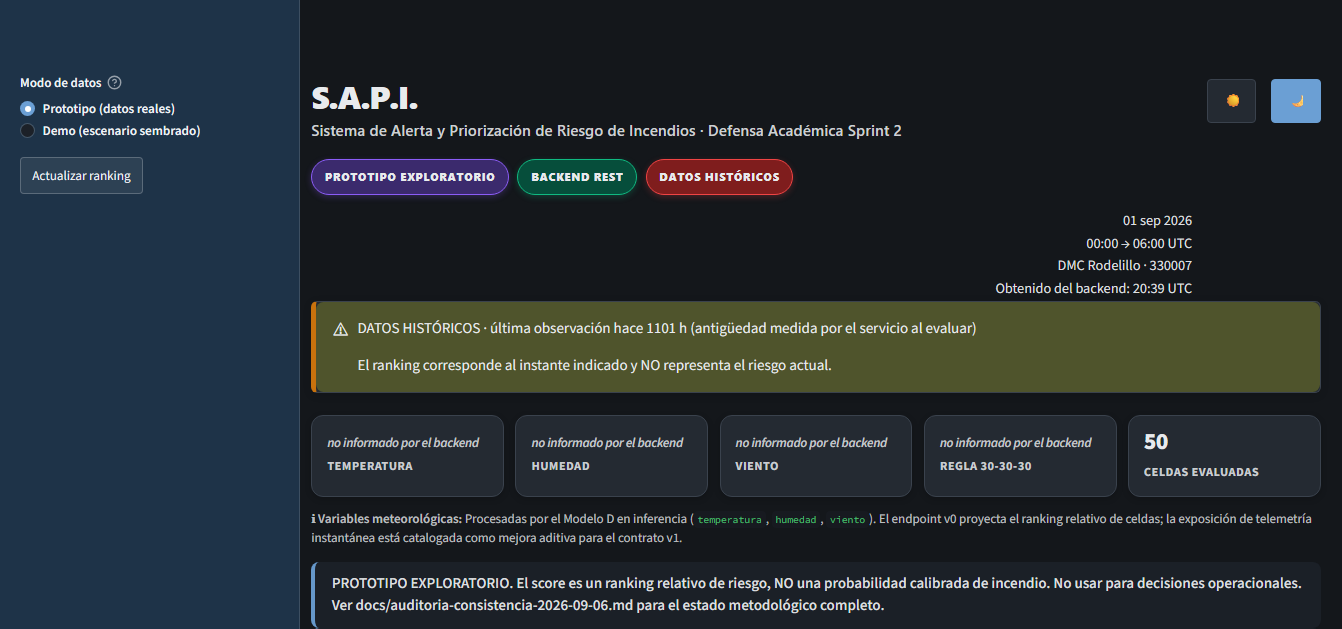
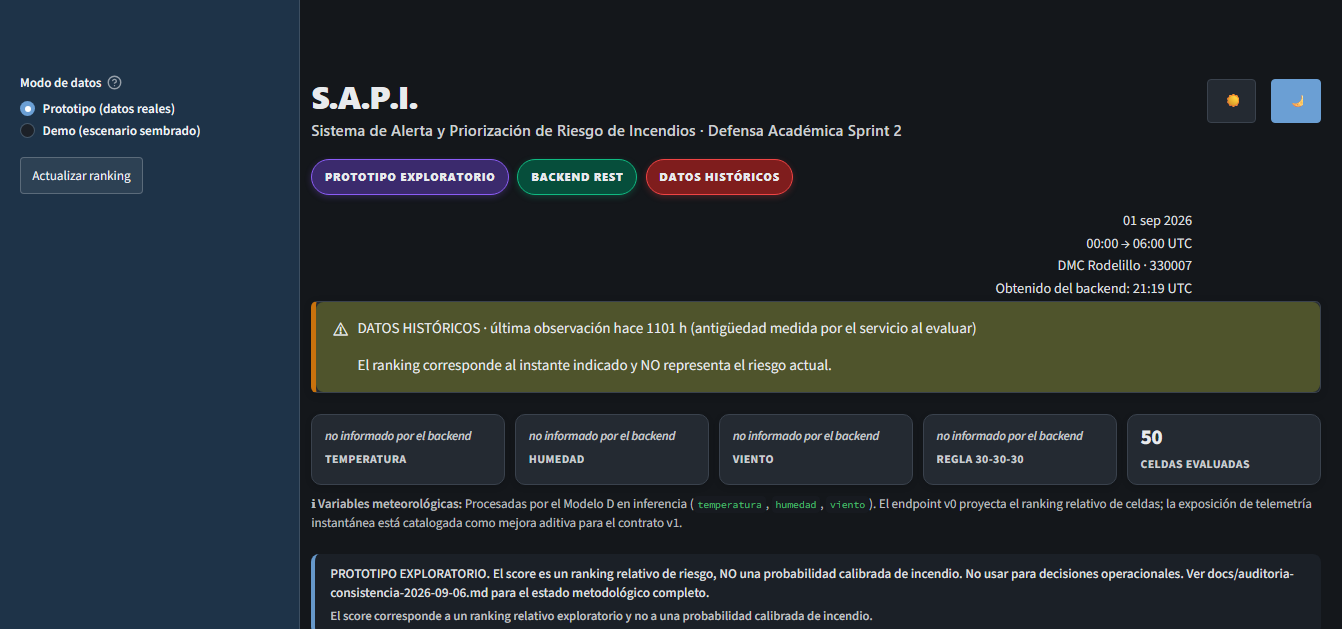
fix(ui): optimize dashboard visual density, unify disclaimer, and clarify DEM coverage in tooltips and panel

Changed region(s): [[0.2139, 0.6343, 0.9776, 0.876], [0.2444, 0.9062, 0.9776, 0.9968], [0.2139, 0.9968, 0.2444, 1.0]]

diff --git a/app/components/ranking_backend_view.py b/app/components/ranking_backend_view.py
@@ -245,13 +245,14 @@ def build_map(
             weight = 3.0
             fill_opacity = max(fill_opacity, 0.35)
 
-        elev_txt, slope_txt, _ = _topo_for(topo, c.cell_id)
+        elev_txt, slope_txt, is_covered = _topo_for(topo, c.cell_id)
+        topo_note = "" if is_covered else " (sin cobertura DEM)"
         tooltip = (
             f"<b>{_esc(c.cell_id)}</b><br>"
             f"Prioridad #{c.display_rank}<br>"
             f"Score {c.score:.6f}<br><br>"
-            f"Elevación {elev_txt} (ref.)<br>"
-            f"Pendiente {slope_txt} (ref.)<br>"
+            f"Elevación {elev_txt} (ref.){topo_note}<br>"
+            f"Pendiente {slope_txt} (ref.){topo_note}<br>"
             f"Historial FIRMS: {NOT_IN_CONTRACT}"
         )
         folium.Rectangle(
@@ -335,31 +336,31 @@ def _inject_css() -> None:
         
         .sapi-v2-kpi-row {
             display: grid; grid-template-columns: repeat(5, minmax(0, 1fr));
-            gap: 0.75rem; margin: 0.5rem 0 0.85rem 0;
+            gap: 0.65rem; margin: 0.4rem 0 0.65rem 0;
         }
         .sapi-v2-kpi {
             background: var(--sapi-surface-card);
             border: 1px solid var(--sapi-border-card);
-            border-radius: 12px;
-            padding: 0.85rem 1rem; min-height: 5.2rem;
+            border-radius: 10px;
+            padding: 0.65rem 0.85rem; min-height: 4.4rem;
             display: flex; flex-direction: column; justify-content: center;
-            box-shadow: 0 2px 6px rgba(0,0,0,0.18);
+            box-shadow: 0 2px 6px rgba(0,0,0,0.14);
             transition: transform 0.15s ease, border-color 0.15s ease;
         }
         .sapi-v2-kpi:hover {
             border-color: var(--sapi-accent);
         }
         .sapi-v2-kpi__value {
-            font-size: 1.55rem; font-weight: 850; letter-spacing: -0.02em;
+            font-size: 1.40rem; font-weight: 850; letter-spacing: -0.02em;
             line-height: 1.15; font-variant-numeric: tabular-nums;
             color: var(--sapi-text-primary);
         }
         .sapi-v2-kpi__value--na {
-            font-size: 0.88rem; font-weight: 600; opacity: 0.82;
+            font-size: 0.85rem; font-weight: 600; opacity: 0.82;
             color: var(--sapi-text-primary); font-style: italic;
         }
         .sapi-v2-kpi__label {
-            font-size: 0.82rem; opacity: 0.85; margin-top: 0.35rem; font-weight: 700;
+            font-size: 0.78rem; opacity: 0.85; margin-top: 0.25rem; font-weight: 700;
             text-transform: uppercase; letter-spacing: 0.04em;
             color: var(--sapi-text-primary);
         }
@@ -367,69 +368,79 @@ def _inject_css() -> None:
         .sapi-v2-panel {
             background: var(--sapi-surface-card);
             border: 1px solid var(--sapi-border-card);
-            border-radius: 14px;
-            padding: 1.15rem 1.3rem; margin-bottom: 1rem;
+            border-radius: 10px;
+            padding: 0.85rem 1.05rem; margin-bottom: 0.75rem;
             color: var(--sapi-text-primary);
-            box-shadow: 0 3px 10px rgba(0,0,0,0.16);
+            box-shadow: 0 2px 8px rgba(0,0,0,0.14);
         }
         .sapi-v2-panel__h {
-            font-size: 0.85rem; font-weight: 850; letter-spacing: 0.09em;
-            text-transform: uppercase; color: var(--sapi-accent); margin: 0 0 0.65rem 0;
+            font-size: 0.80rem; font-weight: 850; letter-spacing: 0.09em;
+            text-transform: uppercase; color: var(--sapi-accent); margin: 0 0 0.45rem 0;
             display: flex; align-items: center; gap: 0.45rem;
         }
         .sapi-v2-prio-num {
-            font-size: 2.35rem; font-weight: 900; letter-spacing: -0.04em;
+            font-size: 2.05rem; font-weight: 900; letter-spacing: -0.04em;
             line-height: 1; color: #f0a070;
             text-shadow: 0 2px 8px rgba(240, 160, 112, 0.25);
         }
         .sapi-v2-chip {
-            display: inline-block; padding: 0.32rem 0.65rem; margin: 0.22rem 0.22rem 0 0;
-            border-radius: 6px; background: var(--sapi-surface-muted);
-            border: 1px solid var(--sapi-border-card); font-size: 0.88rem;
+            display: inline-block; padding: 0.22rem 0.55rem; margin: 0.18rem 0.18rem 0 0;
+            border-radius: 5px; background: var(--sapi-surface-muted);
+            border: 1px solid var(--sapi-border-card); font-size: 0.85rem;
             font-weight: 750; font-variant-numeric: tabular-nums;
             color: var(--sapi-text-primary);
         }
-        .sapi-v2-kv { list-style: none; padding: 0; margin: 0.45rem 0 0 0; }
+        .sapi-v2-kv { list-style: none; padding: 0; margin: 0.35rem 0 0 0; }
         .sapi-v2-kv li {
-            display: flex; justify-content: space-between; gap: 0.85rem;
-            padding: 0.45rem 0; border-bottom: 1px solid var(--sapi-border-subtle);
-            font-size: 0.95rem; color: var(--sapi-text-primary);
+            display: flex; justify-content: space-between; gap: 0.75rem;
+            padding: 0.32rem 0; border-bottom: 1px solid var(--sapi-border-subtle);
+            font-size: 0.90rem; color: var(--sapi-text-primary);
         }
         .sapi-v2-kv li:last-child { border-bottom: none; }
         .sapi-v2-kv span { opacity: 0.75; font-weight: 550; }
         .sapi-v2-kv b { font-weight: 750; }
         
         .sapi-v2-legend {
-            position: relative; z-index: 2; margin: 0.5rem 0 0.75rem 0;
+            margin: 0.45rem 0 0.65rem 0;
             background: var(--sapi-surface-card);
             border: 1px solid var(--sapi-border-card);
-            border-radius: 12px; padding: 0.85rem 1.15rem;
-            max-width: 26rem; font-size: 0.88rem; color: var(--sapi-text-primary);
-            box-shadow: 0 2px 8px rgba(0,0,0,0.18);
+            border-radius: 10px; padding: 0.55rem 0.95rem;
+            color: var(--sapi-text-primary);
+            box-shadow: 0 2px 6px rgba(0,0,0,0.14);
+            display: flex; flex-wrap: wrap; justify-content: space-between; align-items: center; gap: 0.5rem;
+        }
+        .sapi-v2-legend__header {
+            display: flex; align-items: center; gap: 0.75rem; flex-wrap: wrap;
         }
         .sapi-v2-legend__title {
             font-weight: 850; letter-spacing: 0.08em; text-transform: uppercase;
-            font-size: 0.82rem; color: var(--sapi-accent); margin-bottom: 0.55rem;
+            font-size: 0.80rem; color: var(--sapi-accent); margin: 0;
+        }
+        .sapi-v2-legend__note {
+            font-size: 0.80rem; opacity: 0.72; font-style: italic;
+        }
+        .sapi-v2-legend__items {
+            display: flex; align-items: center; gap: 1rem; flex-wrap: wrap;
         }
         .sapi-v2-legend__row {
-            display: flex; align-items: center; gap: 0.65rem; margin: 0.35rem 0;
-            font-weight: 650; font-size: 0.90rem;
+            display: flex; align-items: center; gap: 0.45rem;
+            font-weight: 650; font-size: 0.86rem;
         }
         .sapi-v2-dot {
-            width: 15px; height: 15px; border-radius: 50%; display: inline-block;
+            width: 13px; height: 13px; border-radius: 50%; display: inline-block;
             border: 2px solid rgba(255,255,255,0.45); flex-shrink: 0;
         }
         
         .sapi-v2-disclaimer {
-            font-size: 0.92rem; opacity: 0.95; margin: 0.65rem 0 0 0;
-            padding: 0.75rem 1.1rem; border-radius: 8px;
+            font-size: 0.88rem; opacity: 0.95; margin: 0.45rem 0 0.65rem 0;
+            padding: 0.65rem 1rem; border-radius: 8px;
             background: var(--sapi-surface-muted);
             border-left: 4px solid var(--sapi-accent);
             color: var(--sapi-text-primary);
             line-height: 1.45; font-weight: 550;
         }
         .sapi-v2-note {
-            font-size: 0.84rem; opacity: 0.82; margin-top: 0.45rem;
+            font-size: 0.82rem; opacity: 0.82; margin-top: 0.35rem;
             color: var(--sapi-text-primary); font-style: italic;
         }
         @media (max-width:1100px) {
@@ -541,13 +552,17 @@ def _render_disclaimer(view: RankingView) -> None:
     text = (
         view.disclaimer.strip() if view.disclaimer and view.disclaimer.strip() else None
     )
-    st.markdown(
-        f'<p class="sapi-v2-disclaimer">{_esc(text or FIXED_DISCLAIMER)}</p>',
-        unsafe_allow_html=True,
-    )
     if text and FIXED_DISCLAIMER not in text:
         st.markdown(
-            f'<p class="sapi-v2-disclaimer">{FIXED_DISCLAIMER}</p>',
+            f'<div class="sapi-v2-disclaimer">'
+            f'<div>{_esc(text)}</div>'
+            f'<div style="margin-top:0.35rem;opacity:0.85;font-size:0.84rem">{FIXED_DISCLAIMER}</div>'
+            '</div>',
+            unsafe_allow_html=True,
+        )
+    else:
+        st.markdown(
+            f'<p class="sapi-v2-disclaimer">{_esc(text or FIXED_DISCLAIMER)}</p>',
             unsafe_allow_html=True,
         )
 
@@ -562,10 +577,13 @@ def _render_map_legend(group_by_score: dict[float, int]) -> None:
             f'{vis["label"]}</div>'
         )
     st.markdown(
-        '<div class="sapi-v2-legend"><div class="sapi-v2-legend__title">Prioridad relativa</div>'
-        f'{"".join(rows)}'
-        '<div style="margin-top:0.4rem;opacity:0.7;line-height:1.35">Basado en score relativo.'
-        "<br>No representa niveles oficiales de alerta.</div></div>",
+        '<div class="sapi-v2-legend">'
+        '<div class="sapi-v2-legend__header">'
+        '<div class="sapi-v2-legend__title">Prioridad relativa</div>'
+        '<div class="sapi-v2-legend__note">Score relativo (no representa alertas oficiales).</div>'
+        '</div>'
+        f'<div class="sapi-v2-legend__items">{"".join(rows)}</div>'
+        '</div>',
         unsafe_allow_html=True,
     )
 
@@ -625,7 +643,8 @@ def _render_selected_panel(
     topo = reference_topography() if topography is None else topography
     elev, slope, covered = _topo_for(topo, cell.cell_id)
     dem_note = (
-        '<div class="sapi-v2-note">Sin cobertura DEM de referencia en esta celda</div>'
+        '<div class="sapi-v2-note">Sin cobertura DEM de referencia en esta celda '
+        "(se conserva N/D, QA-04)</div>"
         if not covered
         else ""
     )
@@ -910,7 +929,7 @@ def render_ranking_backend_dashboard() -> None:
     if st.session_state.get(_SESSION_SELECTED) not in cell_ids:
         st.session_state[_SESSION_SELECTED] = cell_ids[0]
 
-    map_col, side_col = st.columns([2.1, 1], gap="large")
+    map_col, side_col = st.columns([1.85, 1], gap="medium")
     with map_col:
         clicked = _render_map(view, selected_id=st.session_state.get(_SESSION_SELECTED))
         if clicked and clicked != st.session_state.get(_SESSION_SELECTED):
